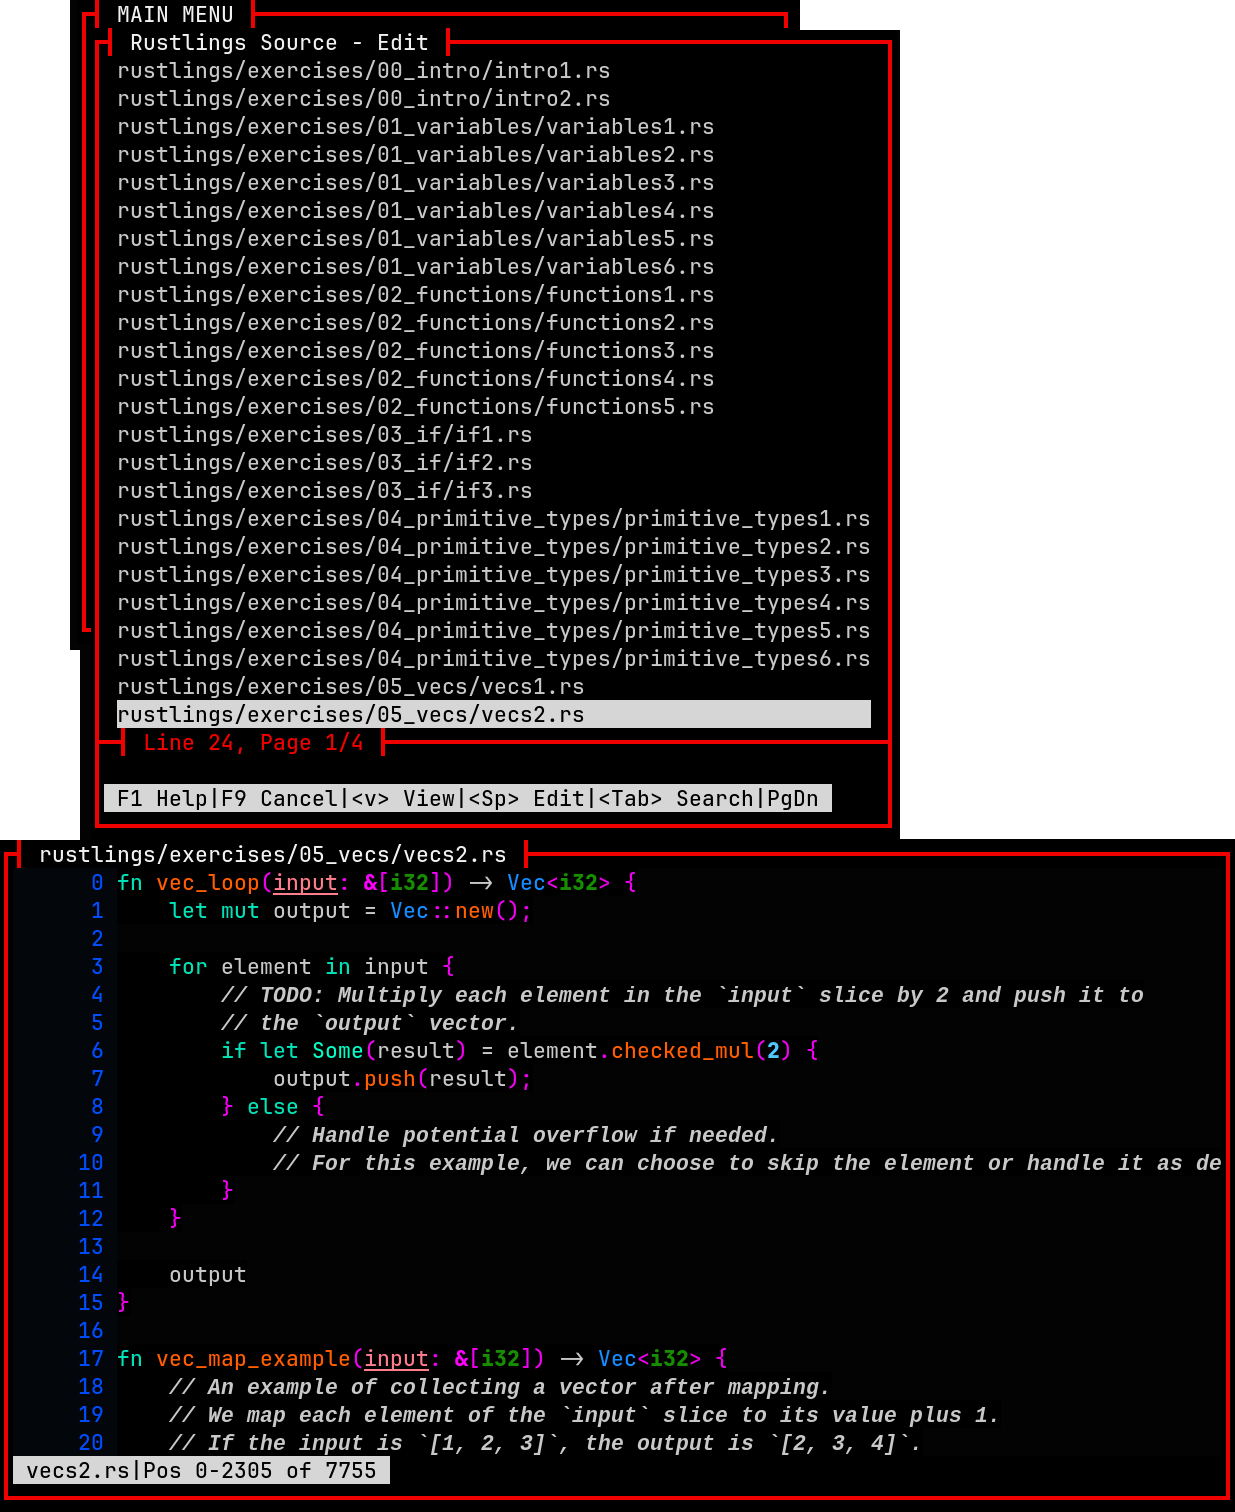
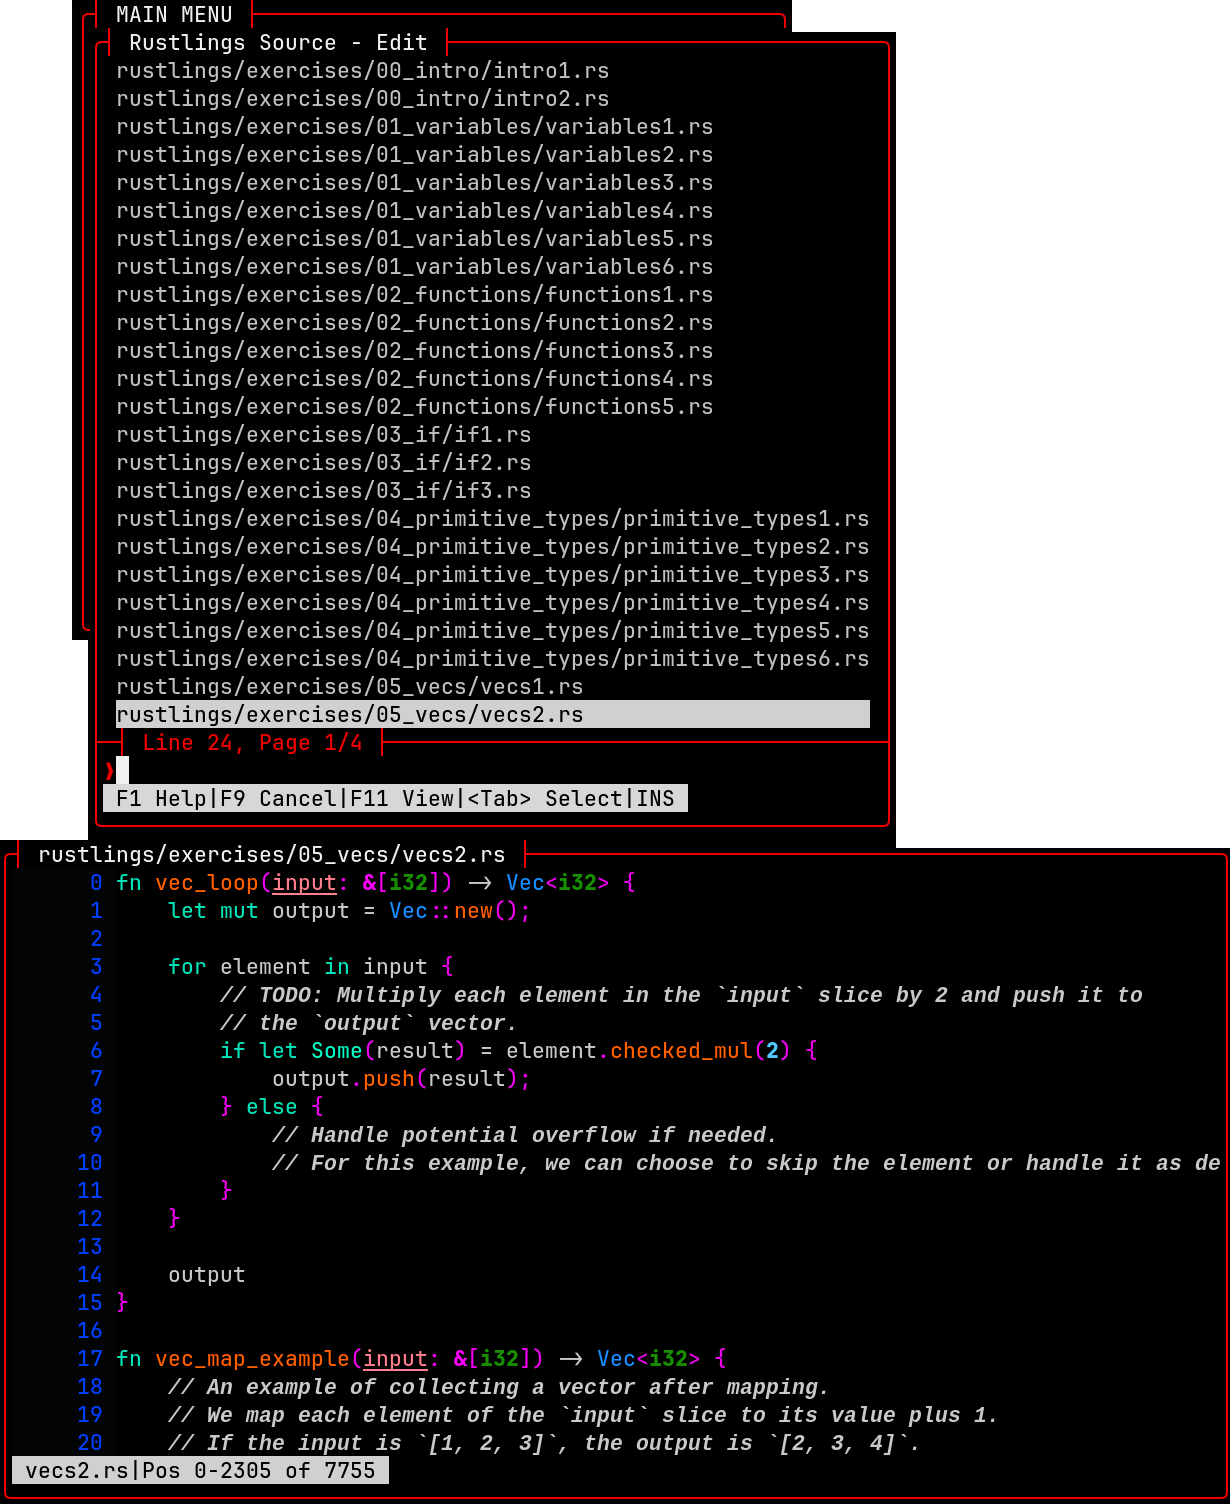
FEATURE UPDATE: UAL UI Minor improvements and fixes

Changed region(s): [[0.0, 0.0, 1.0, 1.0], [0.6797, 0.6562, 0.9268, 0.6875]]

diff --git a/src/ui/ui_common.c b/src/ui/ui_common.c
@@ -1,6 +1,71 @@
 #include "cm.h"
 #include "ui_backend.h"
 
+/** BOX WIDE UNICODE CODEPOINTS */
+
+BorderWide bw;
+
+wchar_t *border_single = L"─│├┤┬┴┼┌┐└┘";
+wchar_t *border_double = L"═║╠╣╦╩╬╔╗╚╝";
+wchar_t *border_rounded = L"─│├┤┬┴┼╭╮╰╯";
+wchar_t *border_heavy = L"━┃┣┫┳┻╋┏┓┗┛";
+wchar_t *border_none = L"           ";
+
+const wchar_t *bw_rtl = L"\x256d"; /**< rounded top left */
+const wchar_t *bw_rtr = L"\x256e"; /**< rounded top right */
+const wchar_t *bw_rbl = L"\x2570"; /**< rounded bottom left */
+const wchar_t *bw_rbr = L"\x256f"; /**< rounded bottom right */
+const wchar_t *bw_sp = L"\x20";    /**< space */
+const wchar_t *bw_ra = L"\x2192";  /**< large right arrow */
+const wchar_t *bw_la = L"\x2190";  /**< large left arrow */
+const wchar_t *bw_ua = L"\x2191";  /**< large up arrow */
+const wchar_t *bw_da = L"\x2193";  /**< large down arrow */
+const wchar_t *bw_ran = L"\x276F"; /**< right_angle */
+const wchar_t *bw_lan = L"\x276E"; /**< left_angle */
+const wchar_t *bw_chk = L"\x2611"; /**< left_angle */
+const wchar_t *bw_h09 = L"\x23BD"; /**< horizontal line 9 */
+
+// -----------------------------------------------------------------------
+// Standard VGA 16-Color Palette
+// -----------------------------------------------------------------------
+
+STDRGB std_color[] = {
+    {0, 0, 0},
+    {128, 0, 0},
+    {0, 128, 0},
+    {128, 128, 0},
+    {0, 0, 128},
+    {128, 0, 128},
+    {0, 128, 128},
+    {192, 192, 192},
+    {128, 128, 128},
+    {255, 0, 0},
+    {0, 255, 0},
+    {255, 255, 0},
+    {0, 0, 255},
+    {255, 0, 255},
+    {0, 255, 255},
+    {255, 255, 255}};
+
+// There is also a 256 color palette which is not included here.
+// You don't really need any palette. It's mostly here for nostalgia. You can
+// show it to your friends and say "look at this." I tell you, when I was a kid,
+// we only had 16 colors. And I used to plow four acres of corn with a two-horse team.
+// And we liked it!
+
+// -----------------------------------------------------------------------
+// Chyron API
+// -----------------------------------------------------------------------
+
+/** new_chyron
+    @brief Create new chyron structure
+    @ingroup UiChyron
+    @return pointer to new chyron structure
+    @details This function allocates memory for a new chyron structure and its
+   associated keys. It initializes the structure to zero and returns a pointer
+   to the newly created chyron. If memory allocation fails, it calls abend() to
+   terminate the program with an error message.
+ */
 UiChyron *ui_new_chyron() {
     UiChyron *chyron = (UiChyron *)calloc(1, sizeof(UiChyron));
     if (!chyron) {
@@ -16,6 +81,22 @@ UiChyron *ui_new_chyron() {
     }
     return chyron;
 }
+/** assign_chyron_win
+    @brief Assign surface and window to chyron structure
+    @ingroup UiChyron
+    @param chyron pointer to UiChyron structure
+    @param sfc pointer to UiSurface structure
+    @param win window index (WIN or BOX)
+    @param y line number for chyron display
+    @return 0 on success, -1 on error
+    @details This function assigns the specified surface and window to the chyron
+   structure. It also sets the line number for displaying the chyron. If the
+   input string y is "-", it sets the line number to the last line of the
+   surface. Otherwise, it converts the string y to an integer and sets it as the
+   line number, ensuring it does not exceed the maximum line number of the
+   surface.
+    @note Drop-down menus from the chyron will be added in the future
+ */
 int ui_assign_chyron_win(UiChyron *chyron, UiSurface *sfc, uint win, char *y) {
     bool a_toi_error = false;
     if (!sfc)
@@ -72,7 +153,7 @@ bool ui_is_set_chyron_key(UiChyron *chyron, uint k) {
     @param k chyron key index (0-19)
     @param s chyron key label
     @param kc chyron key code
-    @param cp color pair index for the key label
+    @param cell_base color pair for chyron key label
     @details This function is like set_chyron_key, except it includes a color
    pair numbers */
 void ui_set_chyron_key_cb(UiChyron *chyron, uint k, char *s, uint kc, UiCell cell_base) {
@@ -253,7 +334,7 @@ int ui_get_chyron_key(UiChyron *chyron, uint x) {
     }
     return chyron->key[k]->keycode;
 }
-/** abend
+/** ui_abend
     @brief Abnormal program termination
     @ingroup error_handling
     @param ec Exit code

diff --git a/src/include/ui_backend.h b/src/include/ui_backend.h
@@ -64,41 +64,7 @@ typedef struct {
     short attrs;      // attributes        2-bytes
     short color_pair; // color pair index  2-bytes
 } UiCchar64;          //           total   8-bytes
-#ifdef ASDF
-typedef enum {
-    UIKEY_NONE = 0,
-    UIKEY_CHAR,
-    UIKEY_ENTER,
-    UIKEY_ESCAPE,
-    UIKEY_BACKSPACE,
-    UIKEY_TAB,
-    UIKEY_BTAB,
-    UIKEY_UP,
-    UIKEY_DOWN,
-    UIKEY_LEFT,
-    UIKEY_RIGHT,
-    UIKEY_HOME,
-    UIKEY_END,
-    UIKEY_PGUP,
-    UIKEY_PGDN,
-    UIKEY_INSERT,
-    UIKEY_DELETE,
-    UIKEY_RESIZE,
-    UIKEY_MOUSE,
-    UIKEY_F01,
-    UIKEY_F02,
-    UIKEY_F03,
-    UIKEY_F04,
-    UIKEY_F05,
-    UIKEY_F06,
-    UIKEY_F07,
-    UIKEY_F08,
-    UIKEY_F09,
-    UIKEY_F10,
-    UIKEY_F11,
-    UIKEY_F12
-} UiKey;
-#endif
+
 typedef uint32_t UiKey;
 typedef struct {
     UiKey key;
@@ -180,10 +146,11 @@ typedef struct {
 
 /** BOX WIDE UNICODE CODEPOINTS */
 
-extern wchar_t *border_rounded;
-extern wchar_t *border_square;
+extern wchar_t *border_single;
 extern wchar_t *border_double;
+extern wchar_t *border_rounded;
 extern wchar_t *border_heavy;
+extern wchar_t *border_none;
 
 typedef union border_wide {
     wchar_t str[11];
@@ -202,17 +169,7 @@ typedef union border_wide {
     };
 } BorderWide;
 
-// extern const wchar_t *bw_ho; /**< horizontal line */
-// extern const wchar_t *bw_ve; /**< vertical line */
-// extern const wchar_t *bw_lt; /**< left tee */
-// extern const wchar_t *bw_rt; /**< right tee */
-// extern const wchar_t *bw_tt; /**< top tee */
-// extern const wchar_t *bw_bt; /**< bottom tee */
-// extern const wchar_t *bw_cr; /**< cross */
-// extern const wchar_t *bw_tl; /**< top left */
-// extern const wchar_t *bw_tr; /**< top right */
-// extern const wchar_t *bw_bl; /**< bottom left */
-// extern const wchar_t *bw_br; /**< bottom right */
+// Temporary macros to access the border wide characters more easily
 
 #define bw_ho bw.ho
 #define bw_ve bw.ve
@@ -249,6 +206,7 @@ typedef struct {
     uint b;
 } STDRGB;
 #else
+
 #define CCHARW_MAX 5
 #define ERR -1
 typedef struct nccell UiCell;
@@ -280,6 +238,7 @@ extern uint LINES, COLS;
     .stylemask = (s),                  \
     .channels = (chan),                \
 }
+
 #endif
 typedef struct {
     union {

diff --git a/src/ui/ui_ncurses.c b/src/ui/ui_ncurses.c
@@ -35,48 +35,6 @@ uint ui_pair_cnt = 0;
 
 UiSurface *stdsfc;
 
-/** BOX WIDE UNICODE CODEPOINTS */
-
-wchar_t *border_single = L"─│├┤┬┴┼┌┐└┘";
-wchar_t *border_rounded = L"─│├┤┬┴┼╭╮╰╯";
-wchar_t *border_double = L"═║╠╣╦╩╬╔╗╚╝";
-wchar_t *border_heavy = L"━┃┣┫┳┻╋┏┓┗┛";
-wchar_t *border_none = L"           ";
-
-BorderWide bw;
-
-const wchar_t *bw_rtl = L"\x256d"; /**< rounded top left */
-const wchar_t *bw_rtr = L"\x256e"; /**< rounded top right */
-const wchar_t *bw_rbl = L"\x2570"; /**< rounded bottom left */
-const wchar_t *bw_rbr = L"\x256f"; /**< rounded bottom right */
-const wchar_t *bw_sp = L"\x20";    /**< space */
-const wchar_t *bw_ra = L"\x2192";  /**< large right arrow */
-const wchar_t *bw_la = L"\x2190";  /**< large left arrow */
-const wchar_t *bw_ua = L"\x2191";  /**< large up arrow */
-const wchar_t *bw_da = L"\x2193";  /**< large down arrow */
-const wchar_t *bw_ran = L"\x276F"; /**< right_angle */
-const wchar_t *bw_lan = L"\x276E"; /**< left_angle */
-const wchar_t *bw_chk = L"\x2611"; /**< left_angle */
-const wchar_t *bw_h09 = L"\x23BD"; /**< horizontal line 9 */
-
-STDRGB std_color[] = {
-    {0, 0, 0},
-    {128, 0, 0},
-    {0, 128, 0},
-    {128, 128, 0},
-    {0, 0, 128},
-    {128, 0, 128},
-    {0, 128, 128},
-    {192, 192, 192},
-    {128, 128, 128},
-    {255, 0, 0},
-    {0, 255, 0},
-    {255, 255, 0},
-    {0, 0, 255},
-    {255, 0, 255},
-    {0, 255, 255},
-    {255, 255, 255}};
-
 /* -------------------------------------------------------------------------
    Backend identification and capability query
    ------------------------------------------------------------------------- */

diff --git a/src/ui/ui_notcurses.c b/src/ui/ui_notcurses.c
@@ -38,32 +38,6 @@ int sfc_ptr = -1;
 
 NcPlane *stdplane;
 
-/** BOX WIDE UNICODE CODEPOINTS */
-
-wchar_t *border_single = L"─│├┤┬┴┼┌┐└┘";
-wchar_t *border_rounded = L"─│├┤┬┴┼╭╮╰╯";
-wchar_t *border_double = L"═║╠╣╦╩╬╔╗╚╝";
-wchar_t *border_heavy = L"━┃┣┫┳┻╋┏┓┗┛";
-wchar_t *border_none = L"           ";
-
-BorderWide bw;
-
-const wchar_t *bw_rtl = L"\x256d"; /**< rounded top left */
-const wchar_t *bw_rtr = L"\x256e"; /**< rounded top right */
-const wchar_t *bw_rbl = L"\x2570"; /**< rounded bottom left */
-const wchar_t *bw_rbr = L"\x256f"; /**< rounded bottom right */
-const wchar_t *bw_sp = L"\x20";    /**< space */
-const wchar_t *bw_ra = L"\x2192";  /**< large right arrow */
-const wchar_t *bw_la = L"\x2190";  /**< large left arrow */
-const wchar_t *bw_ua = L"\x2191";  /**< large up arrow */
-const wchar_t *bw_da = L"\x2193";  /**< large down arrow */
-const wchar_t *bw_ran = L"\x276F"; /**< right_angle */
-const wchar_t *bw_lan = L"\x276E"; /**< left_angle */
-const wchar_t *bw_chk = L"\x2611"; /**< left_angle */
-const wchar_t *bw_h09 = L"\x23BD"; /**< horizontal line 9 */
-
-STDRGB std_color[] = {{0, 0, 0}, {128, 0, 0}, {0, 128, 0}, {128, 128, 0}, {0, 0, 128}, {128, 0, 128}, {0, 128, 128}, {192, 192, 192}, {128, 128, 128}, {255, 0, 0}, {0, 255, 0}, {255, 255, 0}, {0, 0, 255}, {255, 0, 255}, {0, 255, 255}, {255, 255, 255}};
-
 /* -------------------------------------------------------------------------
    Backend identification and capability query
    ------------------------------------------------------------------------- */

diff --git a/README.md b/README.md
@@ -8,24 +8,27 @@ With C-Menu, you can leverage the raw speed and power of a terminal interface wi
 
 More sophisticated applications can be be built using the C-Menu API that is fully integrated with modern development environments like Vim and Neovim. As you type C-Menu API function names, the editor provides auto-completion and inline documentation, making it easy to learn and use. That's why C-Menu is an indispensable tool for skill levels ranging from shell script hobbyists to professional developers and system administrators.
 
-## New Features in View
+## Uniform Abstraction Layer User Interface
 
-### Pick and View integration
+C-Menu has fully integrated the new Uniform Abstraction Layer (UAL) for UI
+Backends. Currently, NCurses and Notcurses are fully supported, and additional
+backends can be added in the future. The UAL allows C-Menu to provide a
+consistent interface across different terminal environments, while also enabling
+advanced features such as mouse support, color management, and improved performance. This makes C-Menu more versatile and adaptable to a wider range of use cases.
 
-`pick` and `view` can be combined to create a fast, interactive file selection and viewing workflow. For example, you can use `lf` to generate a list of files, pipe that into `pick` for selection. As you move the cursor or enter search expressions in Pick, the file highlighted by the selector bar appears in a View window.
+The UAL UI is a separate library that can be used with or independently of C-Menu,
+allowing developers to build their own terminal-based applications with a consistent and powerful UI framework. The UAL provides a set of APIs for creating windows, menus, forms, and other UI elements, as well as handling input events and managing the terminal display.
 
-![Pick and View Integration](screenshots/rustlings-a2.png)
+While Notcurses has many advanced features, and is just plain cool
+[See the Notcurses III Demo](https://www.youtube.com/watch?v=dcjkezf1ARY). That
+being said, NCurses, with fewer cool features, is solid as a rock, and it isn't
+going anywhere. You can use the Notcurses version of C-Menu on your powerful
+desktop development system, and then deploy the NCurses version of C-Menu on your production server. The UAL makes this possible, and it is a key feature of C-Menu that sets it apart from other terminal-based UI toolkits.
 
-You may notice that these windows have a slightly different border. It is
-thicker and doesn't have rounded corners. If you prefer the rounded corners, you
-can change the border variable in your configuration file. Choices are single,
-double, rounded, heavy (above), and none. I have set the default to rounded.
+The core C-Menu components are visually and functionally identical across both
+NCurses and Notcurses backends, and the same code drives both backends through the UAL. This means that you can develop your application using the Notcurses backend, and then deploy it using the NCurses backend without any changes to your code. This is a powerful feature that allows you to take advantage of the advanced features of Notcurses during development, while still being able to deploy your application on systems that only support NCurses.
 
-### Smart Line Wrapping
-
-Nvim's Language Server Protocol log highlighted with a customized Tree-Sitter parser and C-Menu View's Smart Line Wrapping. It's the Bee's knees for developers who want to see the whole line on-screen without horizontal scrolling. With view, you can switch between horizontal scrolling and line wrap modes without closing the document.
-
-![Smart Line Wrapping](screenshots/View_Log.png)
+![UAL API Example](screenshots/rustlings-a2.png)
 
 ---
 
